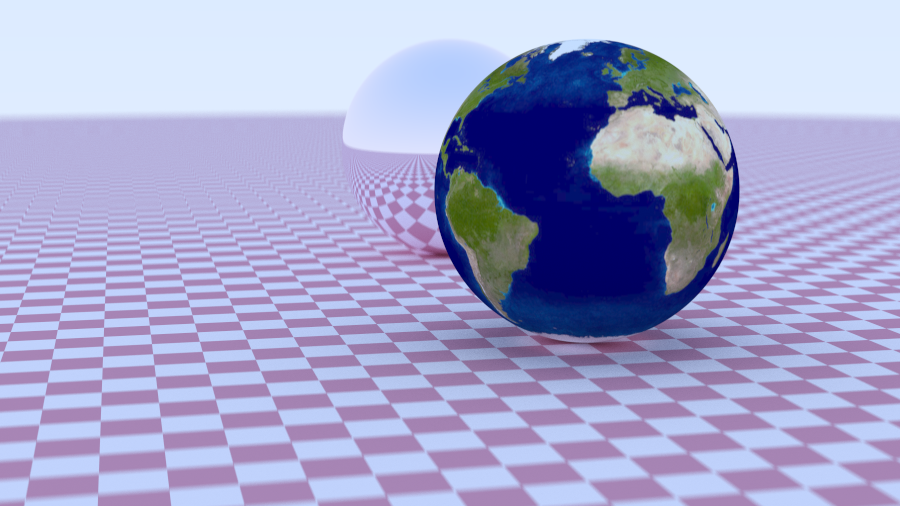
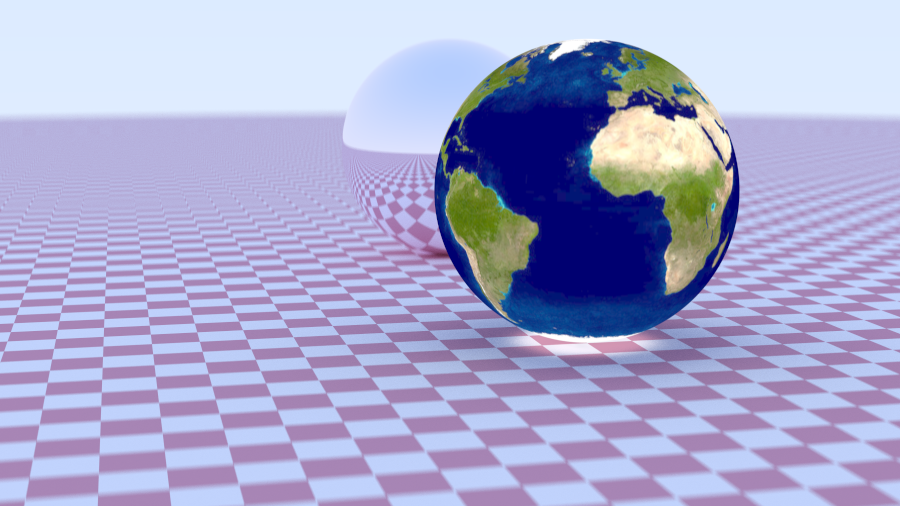
texture: add light

diff --git a/src/scene/examples/next_week.rs b/src/scene/examples/next_week.rs
@@ -1,5 +1,5 @@
 use crate::{
-    material::{Diffuse, DiffuseMethod, Metal},
+    material::{Diffuse, DiffuseMethod, Light, Metal},
     object::{BbObject, Sphere},
     scene::{camera::Camera, session::RenderSession, Scene},
     texture::{Checker, PngTexture, Solid},
@@ -18,7 +18,7 @@ pub fn checker() -> BvhSession {
     list.push(Box::new(ground));
 
     let earth_texture = PngTexture::new("res/earthmap.png").unwrap();
-    let earth_diffuse = Diffuse::new(earth_texture, DiffuseMethod::Lambertian);
+    let earth_light = Light::new(earth_texture);
 
     list.push(Box::new(Sphere::new(
         Coord::new(0., 1., 0.),
@@ -28,7 +28,7 @@ pub fn checker() -> BvhSession {
     list.push(Box::new(Sphere::new(
         Coord::new(4., 1., 0.),
         1.,
-        earth_diffuse,
+        earth_light,
     )));
 
     return RenderSession::new(

diff --git a/src/material/light.rs b/src/material/light.rs
@@ -1,0 +1,24 @@
+use crate::{
+    ray::{EmitRecord, HitRecord, Ray},
+    texture::Texture,
+};
+
+use super::Material;
+
+pub struct Light<T: Texture> {
+    emission: T,
+}
+
+impl<T: Texture> Light<T> {
+    pub fn new(emission: T) -> Self {
+        Self { emission }
+    }
+}
+
+impl<T: Texture> Material for Light<T> {
+    fn emit(&self, _ray: &Ray, hit: &HitRecord) -> Option<EmitRecord> {
+        Some(EmitRecord {
+            emitted: self.emission.at(hit.texture_uv, hit.point),
+        })
+    }
+}

diff --git a/src/material/mod.rs b/src/material/mod.rs
@@ -3,10 +3,12 @@ use crate::ray::{EmitRecord, HitRecord, Ray, ScatterRecord};
 mod coord_utils;
 mod dialectric;
 mod diffuse;
+mod light;
 mod metal;
 
 pub use dialectric::*;
 pub use diffuse::*;
+pub use light::*;
 pub use metal::*;
 
 #[allow(unused_variables)]
